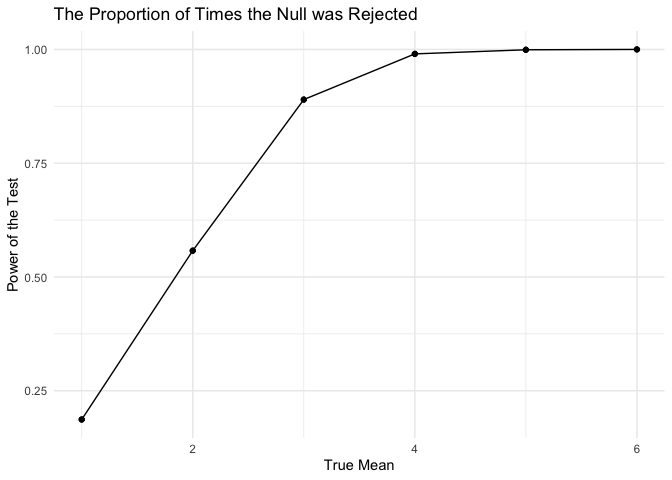
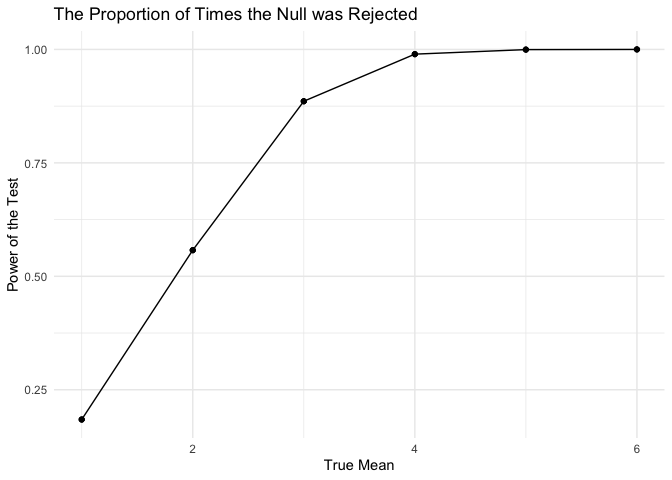
description to the graph in Problem 3

diff --git a/p8105_hw5_rc3520.md b/p8105_hw5_rc3520.md
@@ -209,18 +209,18 @@ expand_grid(population_mean = 0, time = 1:5000) |>
 ```
 
     ## # A tibble: 5,000 × 4
-    ##    population_mean  time  estimate p.value
-    ##              <dbl> <int>     <dbl>   <dbl>
-    ##  1               0     1  0.000286  1.00  
-    ##  2               0     2 -0.368     0.545 
-    ##  3               0     3 -0.944     0.359 
-    ##  4               0     4 -1.62      0.0595
-    ##  5               0     5  1.38      0.111 
-    ##  6               0     6 -1.10      0.151 
-    ##  7               0     7  0.443     0.587 
-    ##  8               0     8 -0.324     0.742 
-    ##  9               0     9 -1.03      0.336 
-    ## 10               0    10 -1.46      0.168 
+    ##    population_mean  time estimate p.value
+    ##              <dbl> <int>    <dbl>   <dbl>
+    ##  1               0     1   0.993   0.353 
+    ##  2               0     2   1.78    0.0145
+    ##  3               0     3   0.0688  0.936 
+    ##  4               0     4  -0.706   0.399 
+    ##  5               0     5  -0.489   0.538 
+    ##  6               0     6  -0.0753  0.946 
+    ##  7               0     7  -0.773   0.334 
+    ##  8               0     8  -0.694   0.481 
+    ##  9               0     9   0.412   0.685 
+    ## 10               0    10   0.518   0.595 
     ## # ℹ 4,990 more rows
 
 \##Repeat the above for μ={1,2,3,4,5,6}
@@ -231,6 +231,8 @@ mean_6 =
   mutate(result_df = map(population_mean, pvalue_estimate_sim)) |> 
   unnest(result_df)
 ```
+
+\##The Proportion of Times the Null was Rejected
 
 ``` r
 ggplot_mean_6 =
@@ -249,3 +251,45 @@ ggplot(ggplot_mean_6,aes(x = population_mean, y = proportion)) +
 ```
 
 ![](p8105_hw5_rc3520_files/figure-gfm/unnamed-chunk-10-1.png)<!-- -->
+\## Describe the association between effect size and power：While the
+effect size increases, the power of the test will also increase.
+
+\##The average estimate of μ̂ V.S.the true value of μ
+
+``` r
+ggplot_mean_6_ave =
+  mean_6|>
+  group_by(population_mean)|>
+  mutate(estimated_ave_mean = mean(estimate))
+
+ggplot(ggplot_mean_6_ave,aes(x = population_mean, y = estimated_ave_mean)) +
+  geom_point() + 
+  geom_line() +
+  geom_point() +
+  theme_minimal() +
+  labs(x = "True Mean", y = "Average Estimated Mean", title = "The average estimate of μ̂ 
+ V.S.the true value of μ")
+```
+
+![](p8105_hw5_rc3520_files/figure-gfm/unnamed-chunk-11-1.png)<!-- -->
+
+## the average estimate of μ̂ only in samples for which the null was rejected V.S. the true value of μ
+
+``` r
+ggplot_mean_6_rejected =
+  mean_6|>
+  filter(p.value < 0.05)|>
+  group_by(population_mean)|>
+  mutate(estimated_ave_mean_rejected = mean(estimate))
+ggplot(ggplot_mean_6_rejected,aes(x = population_mean, y = estimated_ave_mean_rejected)) +
+  geom_point() + 
+  geom_line() +
+  geom_point() +
+  theme_minimal() +
+  labs(x = "True Mean", y = "Estimated_ave_mean_rejected", title = "the average estimate of μ̂ only in samples for which the null was rejected V.S. the true value of μ")  
+```
+
+![](p8105_hw5_rc3520_files/figure-gfm/unnamed-chunk-12-1.png)<!-- -->
+\##the sample average of μ̂ across tests for which the null is rejected
+is not approximately equal to the true value of μ especially when the
+ture mean is smaller than 4.
